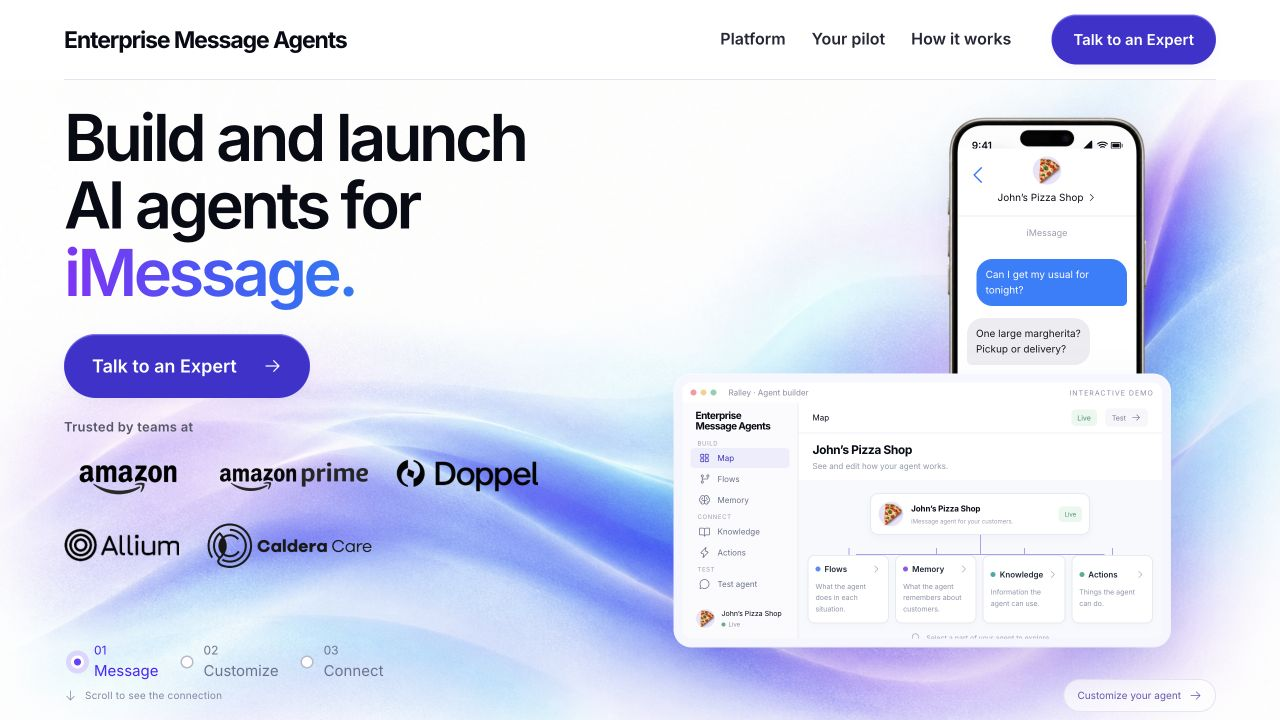
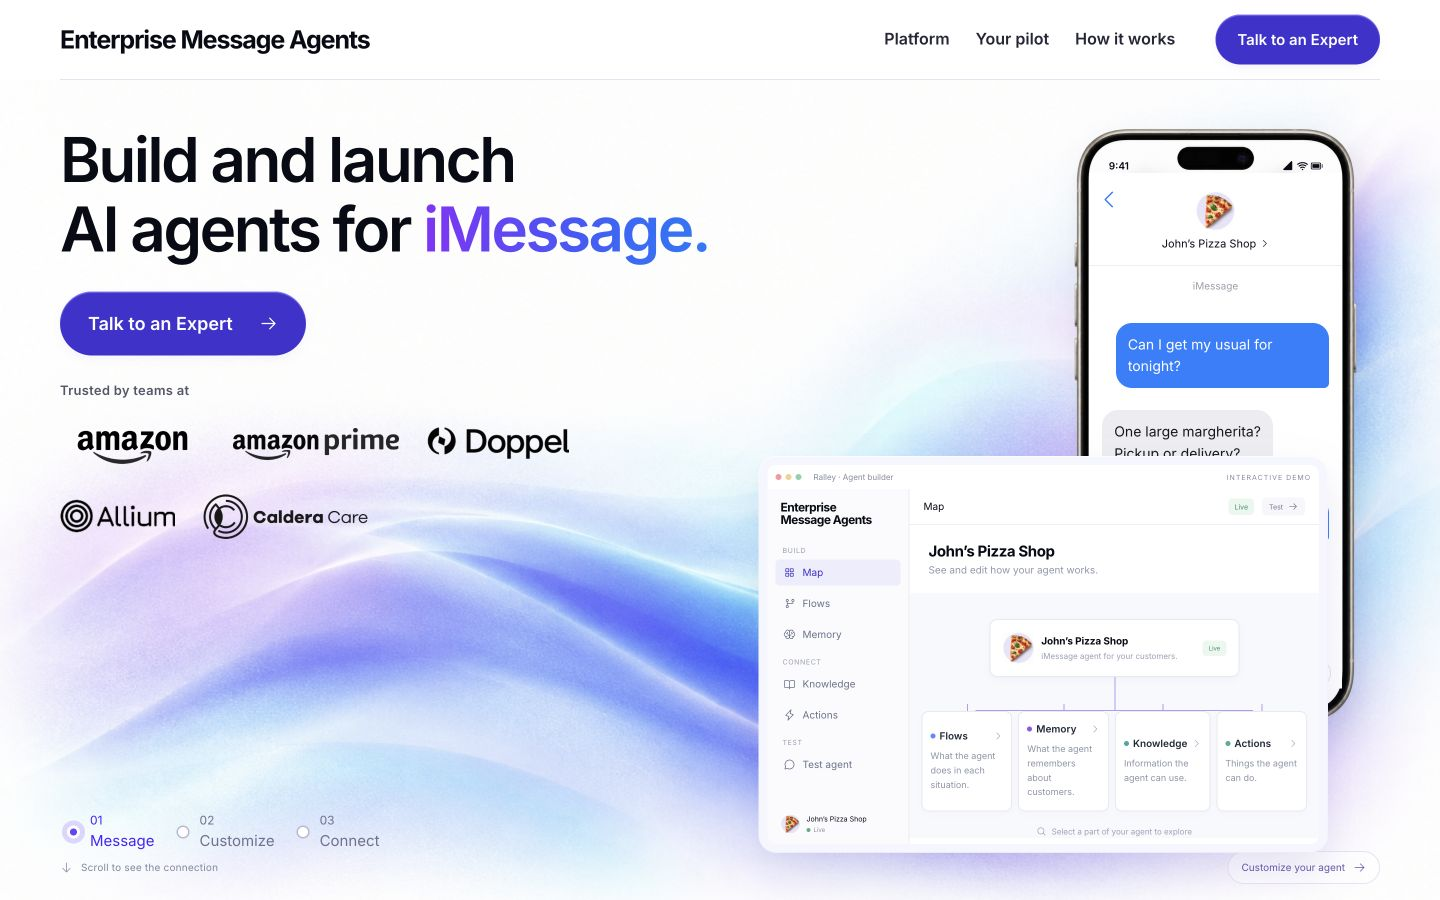
Widen desktop headline and improve chapter copy readability

diff --git a/src/styles.css b/src/styles.css
@@ -2231,7 +2231,7 @@ footer nav a:hover {
 .hero-trust .amazon-logo { width: 145px; }
 .hero-trust .prime-logo { width: 166px; }
 @media (min-width: 761px) {
-  .hero-copy { top: clamp(30px, 5svh, 64px); width: 49%; }
+  .hero-copy { top: clamp(30px, 5svh, 64px); width: 72%; }
   .story-sticky .builder-position {
     left: calc(53% - var(--agent-focus) * 3% - var(--reply-focus) * 25%);
     top: calc(46% + var(--agent-focus) * 14%);
@@ -2249,7 +2249,7 @@ footer nav a:hover {
 }
 @media (min-width: 761px) and (max-height: 780px) {
   .hero-copy { top: 24px; }
-  .hero-copy h1 { font-size: min(5.1vw, 9svh); }
+  .hero-copy h1 { font-size: min(4.3vw, 8svh); }
   .hero-copy p { font-size: 16px; margin: 18px 0 20px; }
   .hero-trust { padding-top: 20px; }
   .hero-trust .amazon-logo { width: 128px; }
@@ -2289,4 +2289,15 @@ footer nav a:hover {
 .hero-copy h1 { margin-bottom: 28px; }
 @media (max-width: 760px) {
   .hero-trust .trust-logos { column-gap: 26px; row-gap: 16px; }
+}
+
+/* Wider two-line desktop headline and readable chapter descriptions. */
+@media (min-width: 761px) {
+  .hero-copy h1 { font-size: clamp(40px, 4.3vw, 64px); line-height: 1.12; letter-spacing: -2.5px; }
+  .story-sticky .story-copy p { font-size: 20px; line-height: 1.6; color: #3f455c; max-width: 800px; }
+  .story-copy .eyebrow { font-size: 13px; font-weight: 600; }
+}
+@media (max-width: 760px) {
+  .hero-channel { display: block; }
+  .story-copy p { font-size: 18px; line-height: 1.6; color: #3f455c; }
 }

diff --git a/src/App.jsx b/src/App.jsx
@@ -444,7 +444,8 @@ export function App() {
             <div className="scene-content">
               <div className="hero-copy">
                 <h1>
-                  Build and launch<br />AI agents for<br /><span className="gradient-text">iMessage.</span>
+                  Build and launch<br />
+                  AI agents for <span className="gradient-text hero-channel">iMessage.</span>
                 </h1>
                 <DemoButton />
                 {SHOW_TRUST_STRIP && (

diff --git a/AGENTS.md b/AGENTS.md
@@ -27,3 +27,5 @@ Build app UI in `src/`. Keep `.openai/hosting.json`, `worker/index.js`, `scripts
 - Sales homepage update: direct “Build and launch AI agents for iMessage” headline, prominent “Talk to an Expert” CTAs, high-contrast larger navigation, and approved customer logos inside the opening hero before any scrolling. Keep white/violet-blue styling and centered scroll chapters. Deliver this update as a PR and localhost preview.
 
 - Keep hero copy to the direct headline and CTA; omit the explanatory paragraph. Owner supplied and identified Doppel, Allium, and Caldera Care as clients; include their logos alongside Amazon and Amazon Prime in the hero trust strip.
+
+- Desktop headline should use a smaller, wider two-line composition reaching toward center. Chapters 02 and 03 need larger, darker supporting descriptions for readability.
